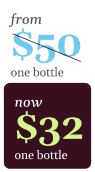
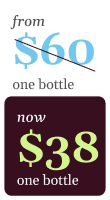
Finalizado beauty

diff --git a/src/components/BenefitsSection.vue b/src/components/BenefitsSection.vue
@@ -6,16 +6,18 @@
                 class="font-gelasio text-[28px] md:text-[34px] leading-[1.10] text-[#525252] text-left lg:text-center lg:text-[40px] mb-6 lg:mb-12 italic">
                 What happens when you sleep naturally:
             </h2>
-            <div class="w-[316px] md:w-[760px] lg:w[960px] grid grid-cols-2 md:grid-cols-3 gap-4 lg:gap-8 mb-6">
+            <div class="w-[316px] md:w-[760px] lg:w-[960px] grid grid-cols-2 md:grid-cols-3 gap-4 lg:gap-8 mb-6">
                 <!-- Benefits Grid -->
                 <div class="flex flex-col items-start gap-4 md:items-start">
                     <img src="@/assets/image/sleepWomam/collagen.jpg" alt="Collagen"
                         class="w-[150px] h-[150px] lg:w-[290px] lg:h-[160px] rounded-xl object-cover flex-shrink-0" />
                     <div class="text-left">
-                        <h3 class="font-normal text-[20px] font-DMSans leading-[1.1] text-[#525252]">Collagen
+                        <h3
+                            class="font-normal text-[20px] lg:text-[24px] font-DMSans leading-[1.1] text-[#525252] lg:mt-1">
+                            Collagen
                         </h3>
-                        <p
-                            class="text-[#525252] leading-[1.1] textfont-DMSans text-[14px] lg:text-lg font-light lg:leading-[1.15] mt-[7px] lg:w-[300px]">
+                        <p class="text-[#525252] leading-[1.1] textfont-DMSans text-[14px] font-light md:w-[150px] mt-[7px]
+                                lg:leading-[1.15] lg:w-[290px] lg:text-[18px]">
                             Natural sleep boosts collagen, helping firm <br class="block md:hidden">the skin and
                             reduce wrinkles.
                         </p>
@@ -25,10 +27,12 @@
                     <img src="@/assets/image/sleepWomam/hydration.png" alt="Hydration"
                         class="w-[150px] h-[150px] lg:w-[290px] lg:h-[160px] rounded-xl object-cover flex-shrink-0" />
                     <div class="text-left">
-                        <h3 class="font-normal text-[20px] font-DMSans leading-[1.1] text-[#525252]">Hydration
+                        <h3
+                            class="font-normal text-[20px] lg:text-[24px] font-DMSans leading-[1.1] text-[#525252] lg:mt-1">
+                            Hydration
                         </h3>
                         <p
-                            class="text-[#525252] text-[14px] font-DMSans leading-[1.1] lg:text-lg font-light lg:leading-[1.15] mt-[7px]">
+                            class="text-[#525252] text-[14px] font-DMSans leading-[1.1] font-light lg:leading-[1.15] mt-[7px] md:w-[150px] lg:w-[290px] lg:text-[18px]">
                             At night, your skin retains more moisture <br class="block md:hidden">— leaving it
                             fresher and more supple by
                             <br class="block md:hidden">morning.
@@ -39,10 +43,12 @@
                     <img src="@/assets/image/sleepWomam/cell-regeneration.png" alt="Cell Regeneration"
                         class="w-[150px] h-[150px] lg:w-[290px] lg:h-[160px] rounded-xl object-cover flex-shrink-0" />
                     <div class="text-left">
-                        <h3 class="font-normal text-[20px] font-DMSans leading-[1.1] text-[#525252]">Cell
+                        <h3
+                            class="font-normal text-[20px] lg:text-[24px] font-DMSans leading-[1.1] text-[#525252] lg:mt-1">
+                            Cell
                             Regeneration</h3>
                         <p
-                            class="text-[#525252] text-[14px] font-DMSans leading-[1.1] lg:text-lg font-light lg:leading-[1.15] lg:w-[280px] mt-[8px]">
+                            class="text-[#525252] text-[14px] font-DMSans leading-[1.1] font-light lg:leading-[1.15] lg:w-[290px] mt-[8px] md:w-[150px] lg:text-[18px]">
                             During sleep, your skin renews itself — <br class="block md:hidden">repairing damage and
                             revealing a healthier glow.
                         </p>
@@ -52,10 +58,12 @@
                     <img src="@/assets/image/sleepWomam/even-skin-tone.png" alt="Even Skin Tone"
                         class="w-[150px] h-[150px] lg:w-[290px] lg:h-[160px] rounded-xl object-cover flex-shrink-0" />
                     <div class="text-left">
-                        <h3 class="font-normal text-[20px] font-DMSans leading-[1.1] text-[#525252]">Even Skin
+                        <h3 class="font-normal text-[20px] lg:text-[24px] font-DMSans leading-[1.1] text-[#525252]">
+                            Even
+                            Skin
                             Tone</h3>
                         <p
-                            class="text-[#525252] text-[14px] font-DMSans leading-[1.1] lg:text-lg font-light lg:leading-[1.15] mt-[7px]">
+                            class="text-[#525252] text-[14px] font-DMSans leading-[1.1] font-light lg:leading-[1.15] mt-[7px] md:w-[150px] lg:w-[290px] lg:text-[18px]">
                             Restorative sleep supports tone correction and <br class="block md:hidden">reduces spots
                             and <br class="block md:hidden">dark circles.
                         </p>
@@ -65,10 +73,12 @@
                     <img src="@/assets/image/sleepWomam/stress-reduction.png" alt="Stress Reduction"
                         class="w-[150px] h-[150px] lg:w-[290px] lg:h-[160px] rounded-xl object-cover flex-shrink-0" />
                     <div class="text-left">
-                        <h3 class="font-normal text-[20px] font-DMSans leading-[1.1] text-[#525252]">Stress
+                        <h3
+                            class="font-normal text-[20px] lg:text-[24px] font-DMSans leading-[1.1] text-[#525252] lg:mt-1">
+                            Stress
                             Reduction</h3>
                         <p
-                            class="text-[#525252] text-[14px] font-DMSans leading-[1.15] lg:text-lg font-light lg:leading-[1.15] mt-[5px]">
+                            class="text-[#525252] text-[14px] font-DMSans leading-[1.15] font-light lg:leading-[1.15] mt-[5px] md:w-[150px] lg:w-[290px] lg:text-[18px]">
                             Good sleep lowers cortisol levels — <br class="block md:hidden">calming inflammation and
                             preventing flare-<br class="block md:hidden">ups like
                             acne or dermatitis.
@@ -79,10 +89,12 @@
                     <img src="@/assets/image/sleepWomam/glymphatic-detox.png" alt="Glymphatic Detox"
                         class="w-[150px] h-[150px] lg:w-[290px] lg:h-[160px] rounded-xl object-cover flex-shrink-0" />
                     <div class="text-left">
-                        <h3 class="font-normal text-[20px] font-DMSans leading-[1.1] text-[#525252]">Glymphatic
+                        <h3
+                            class="font-normal text-[20px] lg:text-[24px] font-DMSans leading-[1.1] text-[#525252] lg:mt-1">
+                            Glymphatic
                             Detox</h3>
                         <p
-                            class="text-[#525252] text-[14px] font-DMSans leading-[1.15] lg:text-lg font-light lg:leading-[1.15] mt-[5px]">
+                            class="text-[#525252] text-[14px] font-DMSans leading-[1.15] font-light lg:leading-[1.15] mt-[5px] md:w-[150px] lg:w-[290px] lg:text-[18px]">
                             Deep sleep activates <br class="block md:hidden">the brain's glymphatic system, flushing
                             toxins and reducing
                             puffiness and under-eye <br class="block md:hidden">shadows.
@@ -90,8 +102,8 @@
                     </div>
                 </div>
             </div>
-            <ShopButton id="buy-button" anchorId="cta-section" textColorClass="text-[#58663a]" :showIcon=true
-                class="mt-2 w-[316px] h-[50px] text-white justify-center justify-between bg-[#d2f58c] rounded-full text-[1rem] font-light hover:bg-[#58663a]/50 transition">
+            <ShopButton id="buy-button" anchorId="cta-section" textColorClass="text-[#58663a]" :showIcon=true class="mt-2 w-[316px] h-[50px] text-white justify-center justify-between lg:text-[18px] lg:px-5 lg:mt-[26px]  lg:text-[20px] lg:w-[392px]
+                bg-[#d2f58c] px-2 rounded-full text-[1rem] font-light hover:bg-[#58663a]/50 transition">
                 Shop: check our opening discount
             </ShopButton>
         </div>

diff --git a/src/components/IngredientsSection.vue b/src/components/IngredientsSection.vue
@@ -100,7 +100,7 @@
                     </p>
 
                     <ShopButton id="buy-button" anchorId="cta-section" textColorClass="text-[#58663a]" :showIcon=true
-                        class="mt-[24px] w-[316px] h-[50px] text-white justify-center justify-between bg-[#d2f58c] rounded-full text-[1rem] font-light hover:bg-[#58663a]/50 transition">
+                        class="mt-[24px] w-[316px] h-[50px] text-white justify-center justify-between bg-[#d2f58c] rounded-full text-[1rem] font-light hover:bg-[#58663a]/50 transition  lg:text-[20px] lg:px-5 lg:w-[392px]">
                         Shop: check our opening discount
                     </ShopButton>
 

diff --git a/src/components/CtaSection.vue b/src/components/CtaSection.vue
@@ -62,7 +62,7 @@
                     <div class="relative">
                         <div class="relative">
                             <div class="absolute right-12 -top-52 lg:right-4 lg:-top-56">
-                                <img src="@/assets/image/sleepWomam/price-desk-thin.png" alt="Pricing"
+                                <img src="@/assets/image/sleepWomam/price-thin.png" alt="Pricing"
                                     class="h-58 lg:h-50" />
                             </div>
                         </div>

diff --git a/src/components/Learnmore.vue b/src/components/Learnmore.vue
@@ -1,6 +1,6 @@
 <template>
     <!-- Learn More Section -->
-    <section class="relative z-10 rounded-t-3xl h-[200px] -mt-6 pt-[35px]" :style="{ backgroundColor }">
+    <section class="relative z-10 rounded-t-3xl h-[200px] -mt-6 pt-[35px] lg:h-[230px]" :style="{ backgroundColor }">
         <div class="max-w-7xl mx-auto px-4 w-[355px]">
             <p
                 class="text-[#370F1E] mb-[14px] font-DMSans font-medium text-xl lg:text-2xl text-center tracking-tight leading-[1.1]">

diff --git a/src/components/ShopButton.vue b/src/components/ShopButton.vue
@@ -47,6 +47,7 @@ const buttonClasses = computed(() => {
     'text-white',
     'px-3',
     'py-0',
+    'h-[50px]',
     'rounded-full',
     'transition-transform',
     'duration-300',
